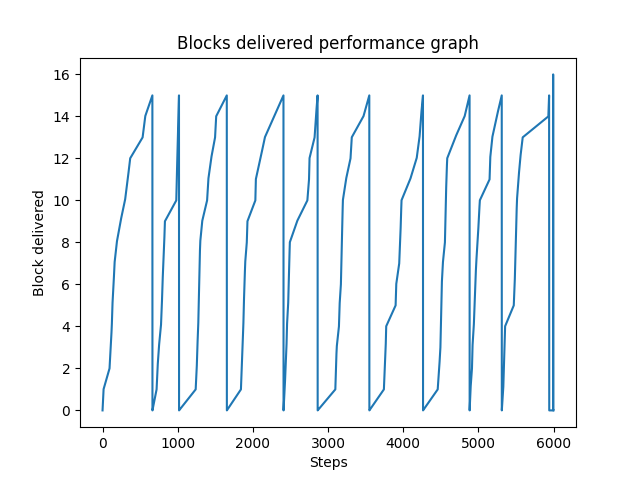
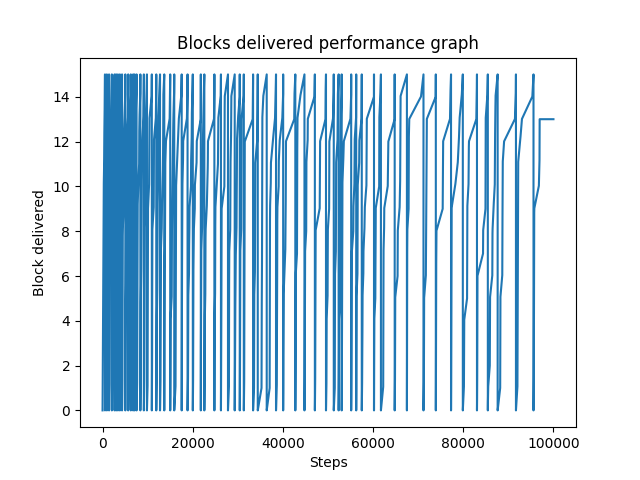
Added entire run perf graph

diff --git a/main.py b/main.py
@@ -45,7 +45,25 @@ states = getStates(w, h)
 q_offset = w * h
 q_table = np.zeros((q_offset * 2, 6))
 
+'''
+for r in range(len(q_table)):
+    for c in range(len(q_table[r])):
+        if c <= 3:
+            q_table[r][c] = -1
+        else:
+            if c == 5:
+                for d in drop_off_loc:
+                    getStateFromCoords(d[1], d[0])
+                    q_table[getStateFromCoords(d[1], d[0]) + q_offset][c] = 13
+            else:
+                for p in pick_up_loc:
+                    getStateFromCoords(p[1], p[0])
+                    q_table[getStateFromCoords(p[1], p[0])][c] = 13
+    print(q_table[r])
+'''
 # BANK ACCOUNT (USE FOR MEASURING PERFORMANCE)
+entire_bank_plot_steps = np.arange(FIRST_STEPS + SECOND_STEPS + 1)
+entire_bank_accumulative = [0]
 bank_plot_steps = np.arange(SECOND_STEPS)  # step array use for plotting
 bank = []
 bank_account = [0]
@@ -82,12 +100,20 @@ def plotPerformanceBank(name='performance_bank_plot'):
         plt.plot(bank_plot_steps[:max(max_len)],
                  np.pad(ba, (0, max(max_len) - len(ba)),
                         'constant', constant_values=ba[len(ba) - 1]), label='E%d' % (i + 1))
-    plt.title('Reward performance graph')
+    plt.title('Reward performance graph each episode')
     plt.xlabel('Steps')
     plt.ylabel('Accumulated reward')
     plt.legend()
     plt.savefig('Images/%s.png' % name)
     plt.clf()
+    plt.figure(3)
+
+    plt.plot(entire_bank_plot_steps[:len(entire_bank_accumulative)],
+             entire_bank_accumulative)
+    plt.title('Reward performance graph entire run')
+    plt.xlabel('Steps')
+    plt.ylabel('Accumulated reward')
+    plt.savefig('Images/Entire_run.png')
 
 
 def plotPerformanceDelSteps(name='performance_del_steps_plot'):
@@ -299,7 +325,7 @@ def greedyAction(state, valid_actions):
 
 
 def qLearning(state, action, reward, next_state, next_actions):
-    return Q(state, action) + alpha * (reward + gamma * (maxQ(next_state, next_actions) - Q(state, action)))
+    return ((1-alpha)*Q(state, action) + alpha * (reward + gamma * (maxQ(next_state, next_actions))))
 
 
 def sarsa(state, action, reward, next_state, next_actions, policy):
@@ -310,7 +336,7 @@ def sarsa(state, action, reward, next_state, next_actions, policy):
         next_action, _ = exploitAction(state, next_actions, epsilon)
     elif (policy == 'PGREEDY'):
         next_action, _ = greedyAction(state, next_actions)
-    return Q(state, action) + alpha*(reward + gamma * (Q(next_state, next_action) - Q(state, action)))
+    return ((1-alpha)*Q(state, action) + alpha*(reward + gamma * (Q(next_state, next_action))))
 
 
 def doSteps(steps, policy, method):
@@ -336,6 +362,7 @@ def doSteps(steps, policy, method):
         elif (policy == 'PGREEDY'):
             action, reward = greedyAction(state, valid_actions)
         bank_account.append(bank_account[len(bank_account)-1]+reward)
+        entire_bank_accumulative.append(entire_bank_accumulative[len(entire_bank_accumulative)-1]+reward)
 
         # has_block gets updated here
         applyAction(action, state)
@@ -358,10 +385,10 @@ def doSteps(steps, policy, method):
         '''
         if action == 'd':
             if world[(x, y)]['no_of_blocks'] == 4:
-                q_table[state][5] = 0
+                q_table[state][5] = -9
         elif action == 'p':
             if world[(x, y)]['no_of_blocks'] == 0:
-                q_table[state][4] = 0
+                q_table[state][4] = -9
         '''
         # keep track of prev state for step visualize part
         prev_x = x
@@ -374,6 +401,7 @@ def doSteps(steps, policy, method):
         # if terminal state reached
         # reset world, put agent back at start
         if len(pick_up_loc) == 0 and len(drop_off_loc) == 0:  # or (policy == 'PGREEDY' and steps == best_steps):
+            print('%d' % round(((delivery_steps/(FIRST_STEPS + SECOND_STEPS))*100), 4), '%')
             # RESET num_of_blocks_delivered
             num_of_blocks_delivered = 0
             # Put episode bank account in the bank
@@ -472,7 +500,7 @@ def doSteps(steps, policy, method):
 
             img = cv.imread('Images/agent_monitor.png')
             cv.imshow('agent monitor', img)
-            cv.waitKey(0)
+            cv.waitKey(1)
 
     # output for the last episode
     if step + 1 == SECOND_STEPS:

diff --git a/vis_funcs.py b/vis_funcs.py
@@ -12,6 +12,7 @@ def initWorld(h, w, world, world_vl, x, y):
             else:
                 world_vl.write_block(world[(c, r)]['coor'], world[(c, r)]['action'], 'white')
             world_vl.write_block(world[(c, r)]['coor'], str(world[(c, r)]['coor']), 'black', 'n', 15)
+    print('Done init world')
 
 def updateWorld(h, w, world, world_vl, x, y):
     for r in range(h):
@@ -28,6 +29,7 @@ def updateWorld(h, w, world, world_vl, x, y):
             world_vl.write_block(world[(c, r)]['coor'], str(world[(c, r)]['coor']), 'black', 'n', 15)
             if world[(c, r)]['action'] == 'd' or world[(c, r)]['action'] == 'p':
                 world_vl.write_block(world[(c, r)]['coor'], str(world[(c, r)]['no_of_blocks']), 'black', pos='s')
+    print('Done update world')
 
 def initQTableWorld(h, w, world, world_vl, x, y):
     for r in range(h):
@@ -43,11 +45,13 @@ def initQTableWorld(h, w, world, world_vl, x, y):
                 world_vl.put_x((c, r), 'purple')
                 world_vl.write_block(world[(c, r)]['coor'], world[(c, r)]['action'], 'white')
             world_vl.write_block(world[(c, r)]['coor'], str(world[(c, r)]['coor']), 'black', 'n', 9, offset_u=8)
+    print('Done init Q table')
 
 def fillQValues(h, w, q_table, world, world_vl, has_block, start_x, start_y):
     for r in range(w):
         for c in range(h):
             updateCell(h, w, q_table, world, world_vl, has_block, r, c, start_x, start_y, True)
+    print('Done filling Q values')
 
 def putAgent(h, w, q_table, world, world_vl, has_block, x, y, start_x, start_y, agent_name='a'):
     updateCell(h, w, q_table, world, world_vl, has_block, x, y, start_x, start_y)

diff --git a/functions.py b/functions.py
@@ -38,7 +38,7 @@ def actionToIndex(action):
     elif action == 'west': n = 3
     elif action == 'p': n = 4
     elif action == 'd': n = 5
-    else: return print("actionNumber recieved invalid action: '" + str(action) + "'")
+    else: return print("actionNumber received invalid action: '" + str(action) + "'")
     return n
 
 def coordsNotValid(x, y, w, h):
